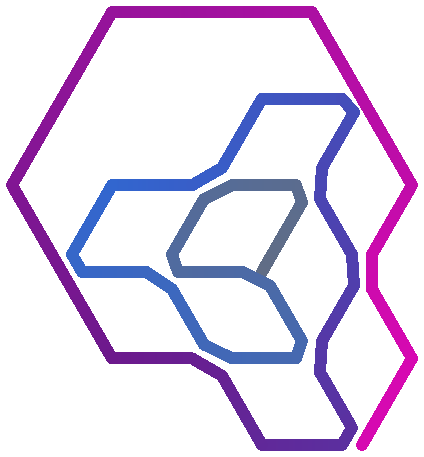
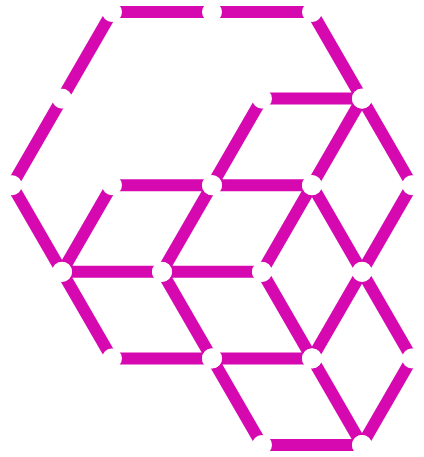
Moved renderers over to using the line_drawer

Changed region(s): [[0.0, 0.0, 0.9505, 1.0], [0.9505, 0.7352, 1.0, 0.8271], [0.9505, 0.3676, 0.9811, 0.4289]]

diff --git a/hex_renderer/src/pattern/draw_gradient.rs b/hex_renderer/src/pattern/draw_gradient.rs
@@ -1,21 +1,28 @@
 use std::collections::HashMap;
 
-use tiny_skia::{Pixmap, Stroke, Color, Paint, GradientStop, LinearGradient, SpreadMode, Transform, PathBuilder};
+use tiny_skia::{
+    Color, GradientStop, LinearGradient, Paint, Pixmap, SpreadMode, Stroke, Transform,
+};
 
-use crate::pattern_utils::{HexCoord, Coord};
+use crate::pattern_utils::{Coord, HexCoord, LineDrawer};
 
 use super::Pattern;
 
-
-pub fn draw_gradient_lines(pattern: &Pattern, pixmap: &mut Pixmap, stroke: &Stroke,
-    origin: HexCoord, scale: f32, 
-    colors: &Vec<Color>, segs_per_color: usize, bent_corners: bool
+pub fn draw_gradient_lines(
+    pattern: &Pattern,
+    pixmap: &mut Pixmap,
+    stroke: &Stroke,
+    origin: HexCoord,
+    scale: f32,
+    colors: &Vec<Color>,
+    segs_per_color: usize,
+    bent_corners: bool,
 ) -> Color {
     let segments = pattern.path.len() as f32 - 1.0;
 
     let mut grad_colors = Vec::new();
 
-    for i in 0..colors.len().min(pattern.path.len()/segs_per_color + 2) {
+    for i in 0..colors.len().min(pattern.path.len() / segs_per_color + 2) {
         let col = colors[i];
         grad_colors.push([col.red(), col.green(), col.blue(), col.alpha()]);
     }
@@ -25,22 +32,16 @@ pub fn draw_gradient_lines(pattern: &Pattern, pixmap: &mut Pixmap, stroke: &Stro
     for i in 1..grad_colors.len() {
         let mut col = [0.0; 4];
         for j in 0..4 {
-            col[j] = grad_colors[i][j]-grad_colors[i-1][j];
+            col[j] = grad_colors[i][j] - grad_colors[i - 1][j];
         }
         grad_diffs.push(col);
     }
 
     let mut cur_color = grad_colors[0];
 
-    let grad_segments = grad_colors.len()-1;
-
-    let mut paint = Paint::default();
+    let grad_segments = grad_colors.len() - 1;
 
     let mut loc_prev = origin + HexCoord::from(pattern.path[0]) * scale;
-
-    paint.anti_alias = false;
-
-    let mut path_queue = Vec::new();
 
     let mut visit_count: HashMap<Coord, usize> = HashMap::new();
 
@@ -53,62 +54,63 @@ pub fn draw_gradient_lines(pattern: &Pattern, pixmap: &mut Pixmap, stroke: &Stro
             }
         }
     }
+    let mut paint = Paint::default();
+    paint.anti_alias = false;
+    let mut line_drawer = LineDrawer::new(origin, stroke.clone(), paint);
+
+    let mut prev_shade_color =
+        Color::from_rgba(cur_color[0], cur_color[1], cur_color[2], cur_color[3]).unwrap();
+
     for i in 1..pattern.path.len() {
         let mut loc_next = origin + HexCoord::from(pattern.path[i]) * scale;
-        //let loc_prev = origin + HexCoord::from(pattern.path[i-1]) * scale;
 
-        let mut stops = vec![GradientStop::new(0.0, Color::from_rgba(cur_color[0], cur_color[1], cur_color[2], cur_color[3]).unwrap())];
-
-        let progress = (i-1) as f32/segments;
+        let progress = (i - 1) as f32 / segments;
         let grad_seg = (progress * grad_segments as f32) as usize;
 
-        let seg_progress = (progress - (grad_seg as f32 / grad_segments as f32)) * grad_segments as f32;
-
+        let seg_progress =
+            (progress - (grad_seg as f32 / grad_segments as f32)) * grad_segments as f32;
 
         for j in 0..4 {
-            cur_color[j] = (grad_colors[grad_seg][j]  + grad_diffs[grad_seg][j] * seg_progress).clamp(0.0, 1.0);
+            cur_color[j] =
+                (grad_colors[grad_seg][j] + grad_diffs[grad_seg][j] * seg_progress).clamp(0.0, 1.0);
         }
-        //println!("{}", seg_progress);
 
+        let cur_col =
+            Color::from_rgba(cur_color[0], cur_color[1], cur_color[2], cur_color[3]).unwrap();
 
-        stops.push(GradientStop::new(1.0, Color::from_rgba(cur_color[0], cur_color[1], cur_color[2], cur_color[3]).unwrap()));
-        
-        let shader = LinearGradient::new(
-            tiny_skia::Point::from_xy(loc_prev.0, loc_prev.1),
-            tiny_skia::Point::from_xy(loc_next.0, loc_next.1),
-            stops,
-            SpreadMode::Pad,
-            Transform::identity(),
-        ).unwrap();
+        line_drawer.set_shader(
+            LinearGradient::new(
+                tiny_skia::Point::from_xy(loc_prev.0, loc_prev.1),
+                tiny_skia::Point::from_xy(loc_next.0, loc_next.1),
+                vec![
+                    GradientStop::new(0.0, prev_shade_color),
+                    GradientStop::new(1.0, cur_col),
+                ],
+                SpreadMode::Pad,
+                Transform::identity(),
+            )
+            .unwrap(),
+        );
 
-        let mut pb = PathBuilder::new();
-
-        pb.move_to(loc_prev.0, loc_prev.1);
-
-        if bent_corners && visit_count.get(&pattern.path[i]).unwrap() > &1 && pattern.path.len()-1 != i {
+        if bent_corners
+            && visit_count.get(&pattern.path[i]).unwrap() > &1
+            && pattern.path.len() - 1 != i
+        {
             let bend_amount = 0.2;
 
-            let stop_point = loc_next - (loc_next - loc_prev)* bend_amount;
-            pb.line_to(stop_point.0, stop_point.1);
+            let stop_point = loc_next - (loc_next - loc_prev) * bend_amount;
+            line_drawer.line_to(stop_point);
 
-            loc_next = loc_next + (origin + HexCoord::from(pattern.path[i+1])*scale - loc_next) * bend_amount;
-            pb.line_to(loc_next.0, loc_next.1);
-        } else {
-            pb.line_to(loc_next.0, loc_next.1);
+            loc_next = loc_next
+                + (origin + HexCoord::from(pattern.path[i + 1]) * scale - loc_next) * bend_amount;
         }
-        
-        let path = pb.finish().unwrap();
-
-        path_queue.push((path, shader));
+        line_drawer.line_to(loc_next);
 
         loc_prev = loc_next;
+        prev_shade_color = cur_col;
     }
 
-    for (path, shader) in path_queue.into_iter().rev() {
-        paint.shader = shader;
+    line_drawer.draw_all(pixmap);
 
-        pixmap.stroke_path(&path, &paint, stroke, Transform::identity(), None);
-    }
-
-    return colors[grad_colors.len()-1];
+    return colors[grad_colors.len() - 1];
 }

diff --git a/hex_renderer/src/pattern/draw_monocolor.rs b/hex_renderer/src/pattern/draw_monocolor.rs
@@ -1,26 +1,26 @@
-use tiny_skia::{Pixmap, Stroke, Color, PathBuilder, Paint, Transform};
+use tiny_skia::{Color, Paint, Pixmap, Stroke};
 
-use crate::pattern_utils::HexCoord;
+use crate::pattern_utils::{HexCoord, LineDrawer};
 
 use super::Pattern;
 
-pub fn draw_monocolor_lines(pattern: &Pattern, pixmap: &mut Pixmap, stroke: &Stroke,
-    origin: HexCoord, scale: f32, 
-    color: Color
+pub fn draw_monocolor_lines(
+    pattern: &Pattern,
+    pixmap: &mut Pixmap,
+    stroke: &Stroke,
+    origin: HexCoord,
+    scale: f32,
+    color: Color,
 ) {
-    let mut pb = PathBuilder::new();
+    let mut paint = Paint::default();
+    paint.set_color(color);
 
-    pb.move_to(origin.0, origin.1);
+    let mut line_drawer = LineDrawer::new(origin, stroke.clone(), paint);
 
     for line in &pattern.path {
         let current = HexCoord::from(*line) * scale + origin;
-        
-        pb.line_to(current.0, current.1);
+        line_drawer.line_to(current);
     }
 
-    let path = pb.finish().unwrap();
-    
-    let mut paint = Paint::default();
-    paint.set_color(color);
-    pixmap.stroke_path(&path, &paint, &stroke, Transform::identity(), None);
+    line_drawer.draw_all(pixmap);
 }

diff --git a/hex_renderer/src/pattern_utils/line_drawer.rs b/hex_renderer/src/pattern_utils/line_drawer.rs
@@ -1,4 +1,4 @@
-use tiny_skia::{Color, Paint, Path, PathBuilder, Pixmap, Stroke, Transform};
+use tiny_skia::{Color, Paint, Path, PathBuilder, Pixmap, Shader, Stroke, Transform};
 
 use super::HexCoord;
 
@@ -49,6 +49,12 @@ impl<'a> LineDrawer<'a> {
     pub fn set_color(&mut self, color: Color) {
         self.new_path(self.prev_point, self.stroke.clone(), self.paint.clone());
         self.paint.set_color(color);
+    }
+
+    pub fn set_shader(&mut self, shader: Shader<'a>) {
+        let mut paint = self.paint.clone();
+        paint.shader = shader;
+        self.new_path(self.prev_point, self.stroke.clone(), paint);
     }
     pub fn set_width(&mut self, width: f32) {
         self.new_path(self.prev_point, self.stroke.clone(), self.paint.clone());

diff --git a/hex_renderer/src/main.rs b/hex_renderer/src/main.rs
@@ -24,7 +24,7 @@ fn main() {
 
     //let patterns_str = "NORTH_EAST qaqqqqwwawwqqeaddwwddas";
 
-    let patterns_str = "NORTH_EAST qeqwqwqwqwqeqaeqeaqeqaeqaqdededwaqdedsssssssssssdess";
+    //let patterns_str = "NORTH_EAST qeqwqwqwqwqeqaeqeaqeqaeqaqdededwaqdedsssssssssssdess";
     let patterns_str = "NORTH_EAST qeqwqwqwqwqeqaeqeaqeqaeqaqded";
 
     //let patterns_str = "EAST wwwsdsdsdsdsds";
@@ -92,5 +92,5 @@ fn main() {
         ),
     };*/
 
-    grid.draw_grid_to_file("text.png", scale, &defaults::GRADIENT);
+    grid.draw_grid_to_file("text.png", scale, &defaults::MONOCOLOR);
 }
